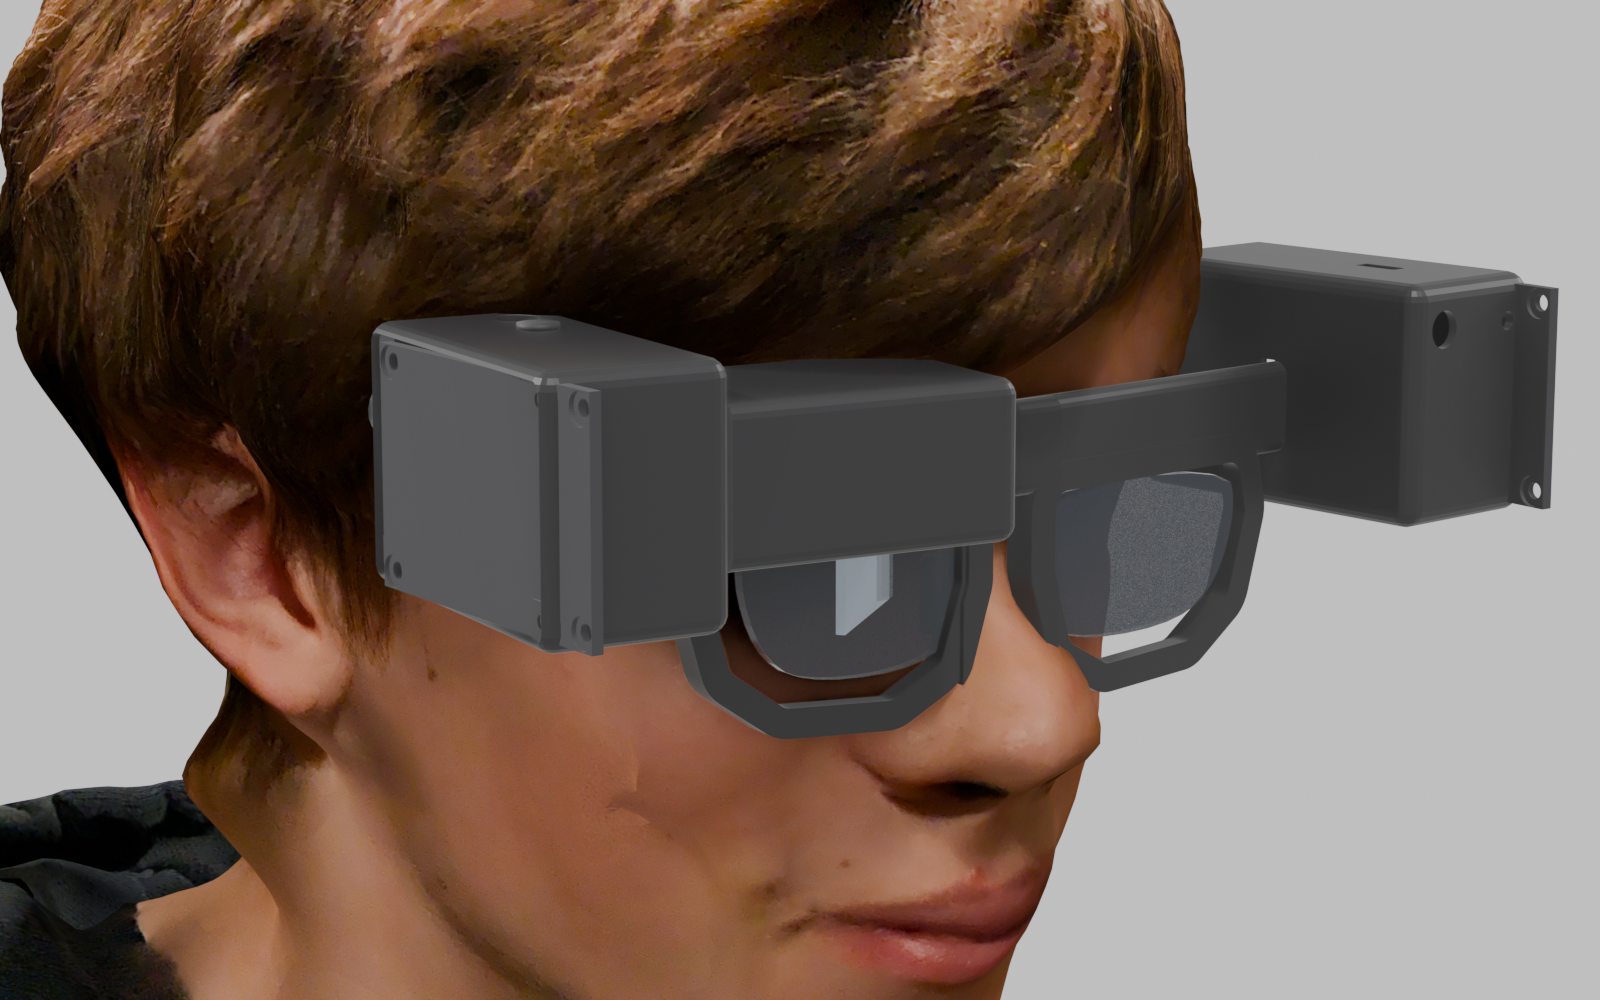
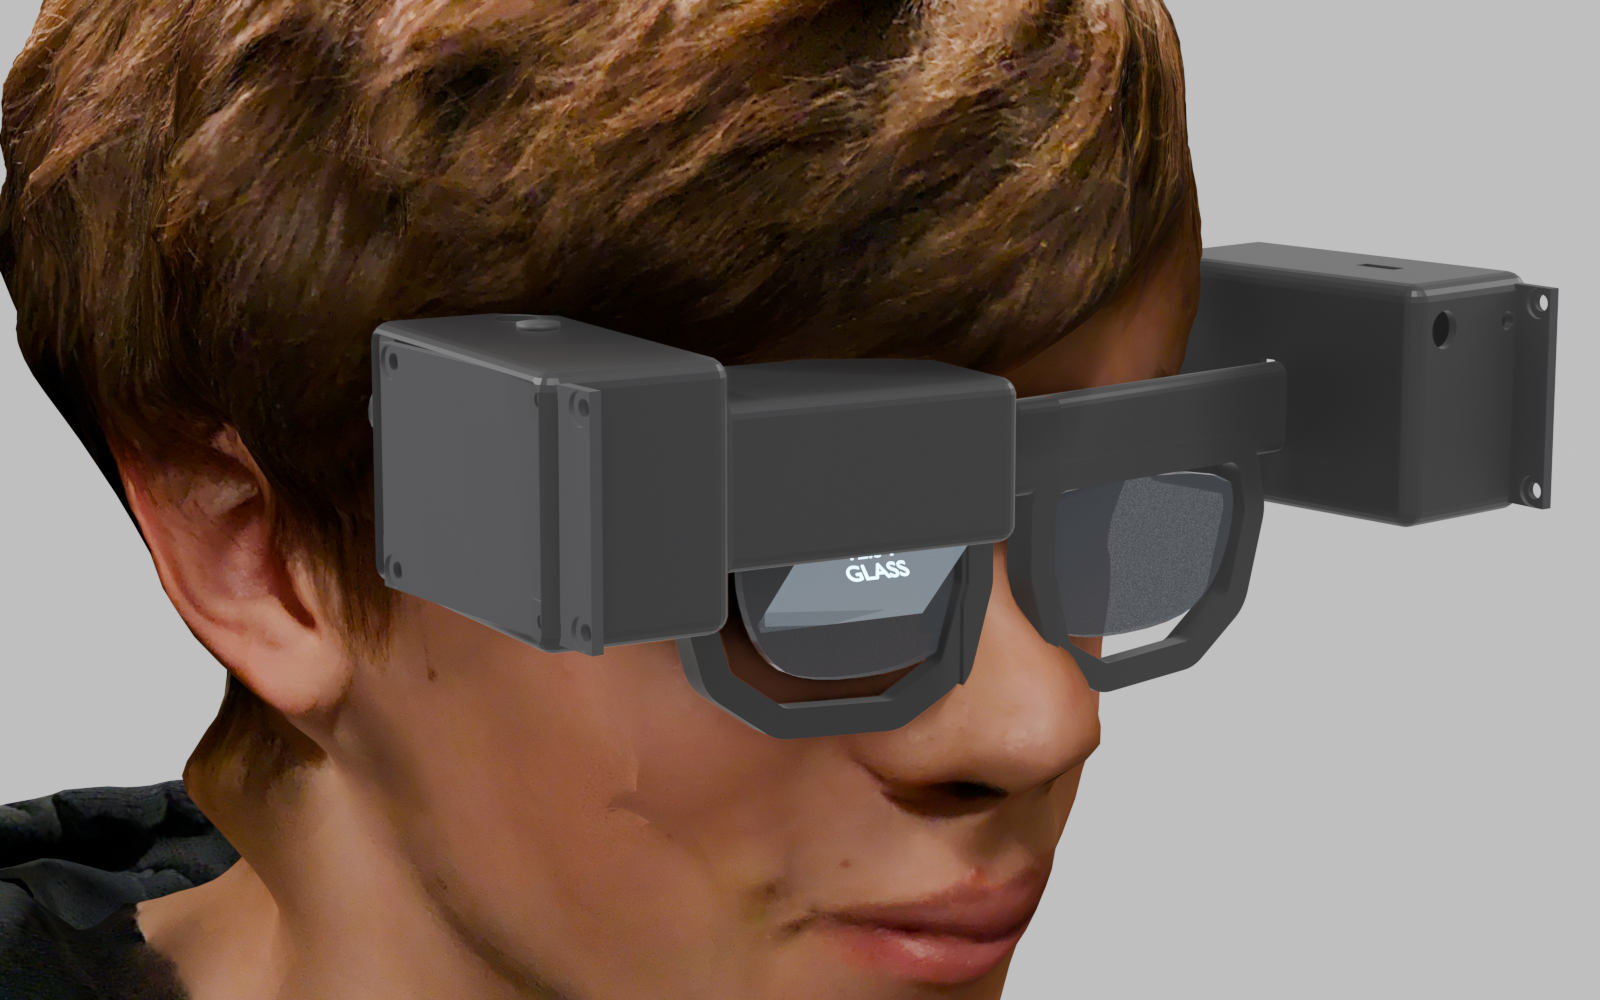
blender: tilted combiner

Changed region(s): [[0.4688, 0.527, 0.625, 0.651]]

diff --git a/cad/glass_build.py b/cad/glass_build.py
@@ -149,7 +149,7 @@ def lights():
 STL = os.path.join(HERE, 'stl')
 EX = 31.5                                   # PD/2
 LENS_IN = [(6, 6), (50, 6), (52, -2), (48, -14), (40, -20), (20, -21), (9, -17), (5, -6)]
-COMB = (EX, 13, 6.5)                        # beam splitter centre (SCAD: COMB), in the unwrapped right frame
+COMB = (EX, 16, 0)                          # beam splitter centre (SCAD: COMB), in the unwrapped right frame; plate tilted 45° about X
 WRAP = math.radians(6)                      # SCAD: WRAP — each half rotated about Z at the bridge
 
 def wrap(p, side=1):
@@ -182,13 +182,13 @@ def build_glasses():
     for side, mirror in (('R', False), ('L', True)):
         outline_mesh(f'lens_{side}', LENS_IN, 0.4, 2.4, M_LENS, mirror, root)
     # beam splitter hanging below the hood, 45 deg about Z
-    comb = box('combiner', wrap(COMB), (30, 1.6, 30), M_COMB, 0.2, rot=(0, 0, math.radians(45) - WRAP), parent=root)
+    comb = box('combiner', wrap(COMB), (30, 1.6, 30), M_COMB, 0.2, rot=(math.radians(-45), 0, -WRAP), parent=root)
     # HUD content on the eye side of the plate (upper part, where the beam lands)
-    bpy.ops.object.text_add(location=wrap((COMB[0], COMB[1], COMB[2] + 5))); t = bpy.context.object; t.name = 'hud_text'
+    bpy.ops.object.text_add(location=wrap((COMB[0], COMB[1] - 0.6, COMB[2] + 0.6))); t = bpy.context.object; t.name = 'hud_text'
     t.data.body = '12:34\nGLASS'; t.data.size = 4; t.data.align_x = 'CENTER'; t.data.align_y = 'CENTER'
     t.data.extrude = 0.1; t.data.materials.append(M_HUD)
-    t.rotation_euler = Euler((math.radians(90), 0, math.radians(225) - WRAP), 'XYZ')
-    t.location = Vector(wrap((COMB[0], COMB[1], COMB[2] + 5))) + Vector((-0.7, 0.7, 0))
+    t.rotation_euler = Euler((math.radians(45), 0, math.radians(180) - WRAP), 'XYZ')
+    t.location = Vector(wrap((COMB[0], COMB[1] - 0.6, COMB[2] + 0.6)))
     t.parent = root
     # camera lens glass in the right pod's front wall, status LED on the left pod
     cyl('cam_glass', wrap((88, 27.3, 31)), 2.8, 0.6, M_CAM, 'Y', root); bpy.context.object.rotation_euler.z = -WRAP
